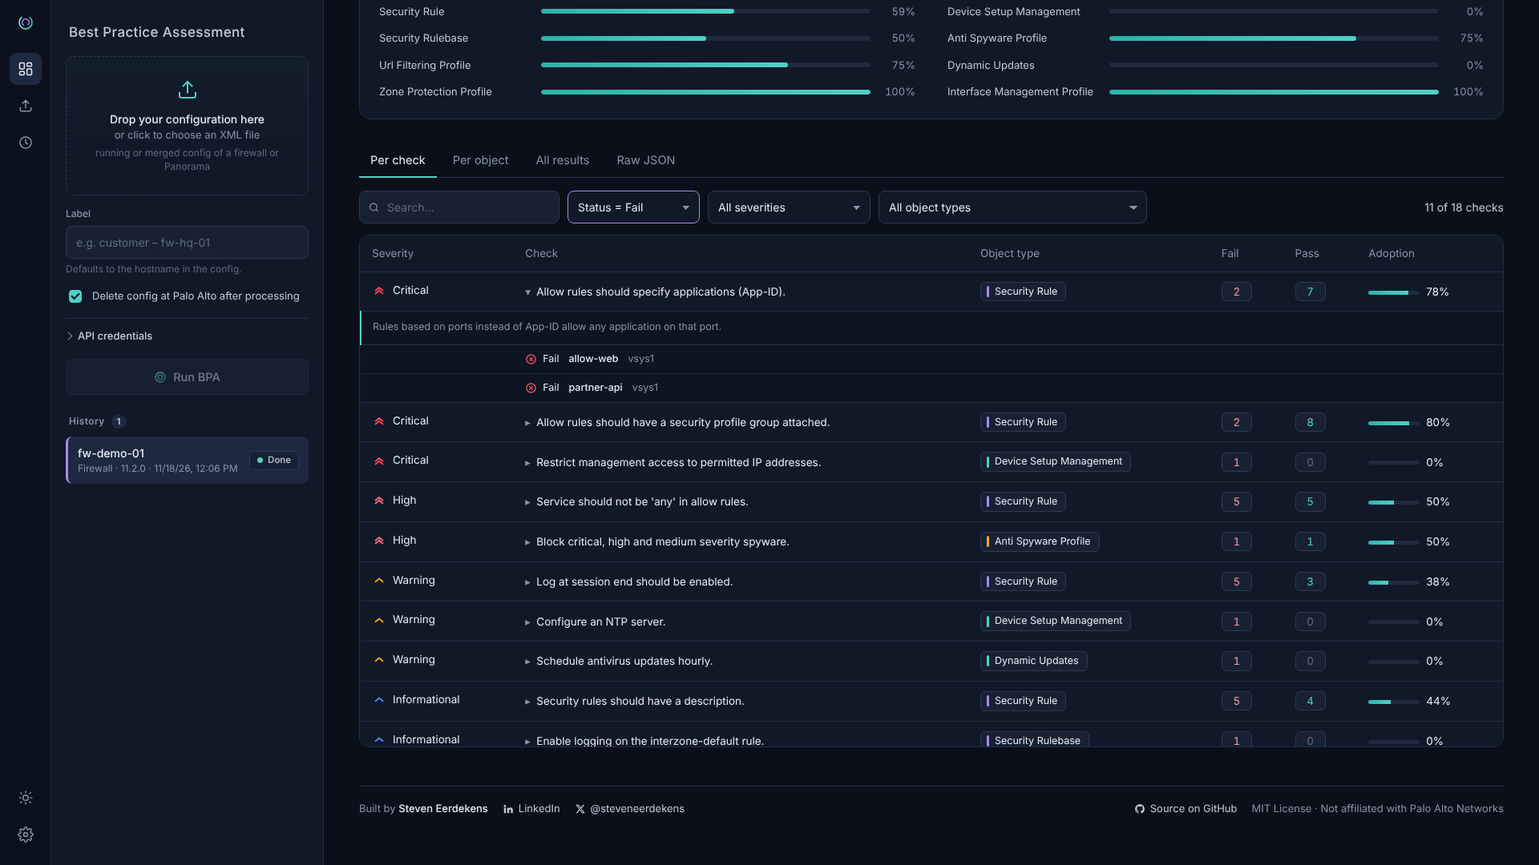
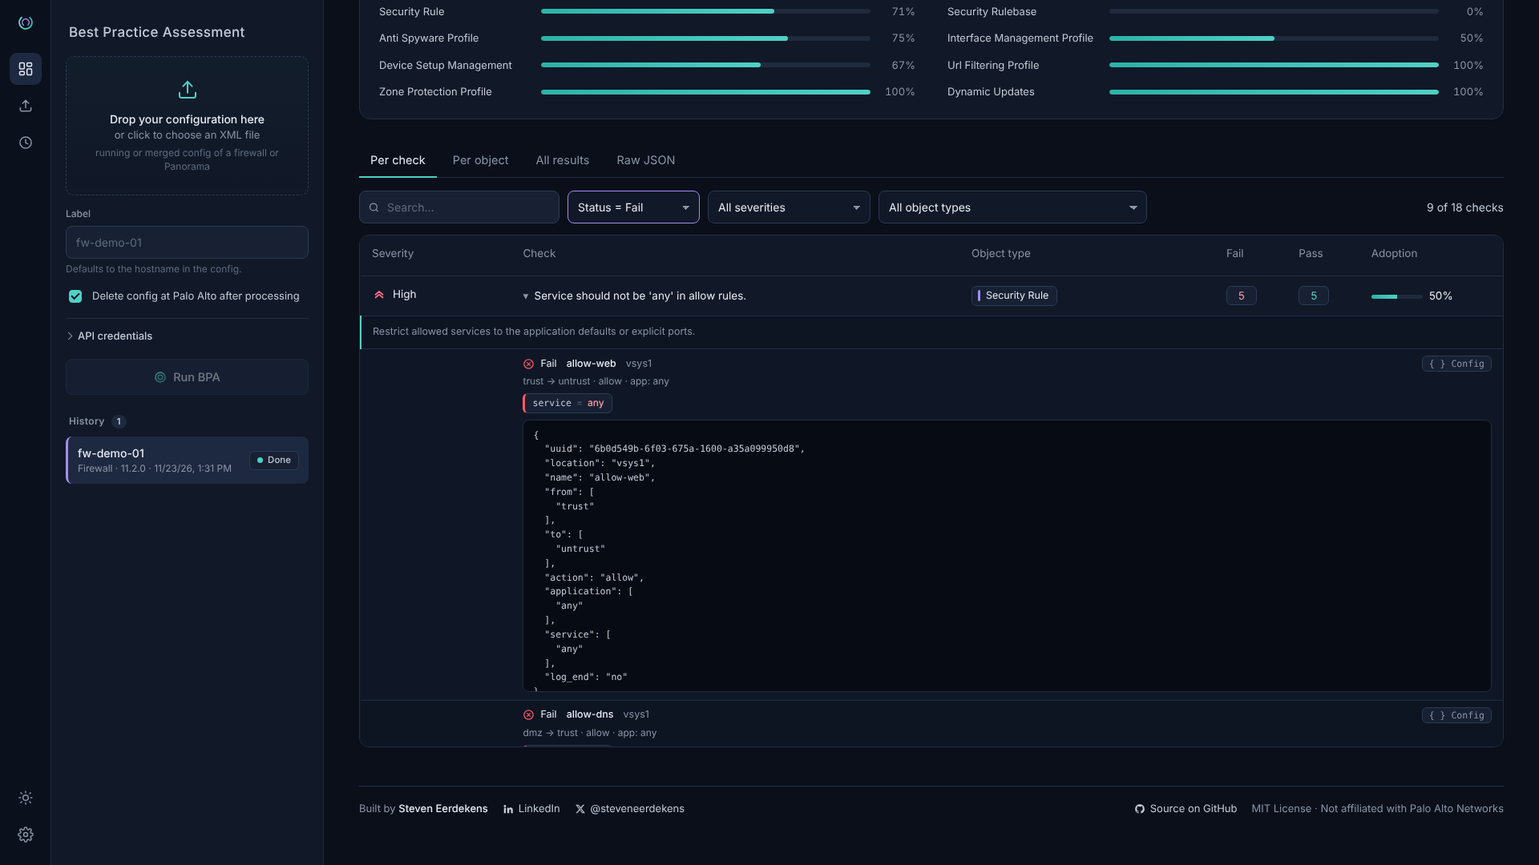
Show exactly which object and setting fails each check
- Name every failing result: rules and profiles by name, rulebases by
  location with their rule count, device settings by group
- Rule context: source and destination zones, action, applications
- Failing settings from failed_fields with their current value
  (e.g. service = any, permitted_ip = empty) in every view and the CSV
- Config viewer per object
- Fix: the config field 'type' was used as object type
- Mock report now includes rulebases, rule context and failed_fields

Claude-Session: https://claude.ai/code/session_018W57nAfqXuJgD4M58tbKTR

diff --git a/static/index.html b/static/index.html
@@ -198,6 +198,21 @@
   tr.sub td{background:var(--subrow);font-size:12.5px;padding:8px 14px}
   tr.sub:hover td{background:var(--subhover)}
   .caret{display:inline-block;width:14px;color:var(--muted)}
+  .objline{display:flex;align-items:center;gap:12px;flex-wrap:wrap}
+  .objline .sp{flex:1}
+  .ctx{font-size:12px;color:var(--muted);margin-top:3px}
+  .ffs{display:flex;flex-wrap:wrap;gap:6px;margin-top:6px}
+  .ff{display:inline-flex;align-items:baseline;gap:6px;font-size:12px;background:var(--panel2);border:1px solid var(--line2);border-left:3px solid var(--bad);
+    border-radius:6px;padding:2px 9px;max-width:100%}
+  .ff code{font-family:var(--mono);font-size:11.5px;color:var(--ink2)}
+  .ff span{color:var(--dim)}
+  .ff b{font-weight:500;color:var(--failink);word-break:break-word}
+  .ff i{color:var(--muted);font-style:italic;font-weight:400}
+  .resline{padding:3px 0}
+  .cfgbtn{font:500 11.5px var(--mono);color:var(--muted);background:var(--panel2);border:1px solid var(--line2);border-radius:6px;padding:2px 8px;cursor:pointer}
+  .cfgbtn:hover{color:var(--teal);border-color:var(--teal)}
+  pre.cfg{font:11.5px/1.55 var(--mono);background:var(--logbg);border:1px solid var(--line);border-radius:8px;padding:10px 12px;margin:8px 0 2px;
+    max-height:340px;overflow:auto;color:var(--ink2);white-space:pre}
   tr.desc td{background:var(--subrow);color:var(--muted);font-size:12.5px;padding:10px 14px 12px;border-left:2px solid var(--teal)}
 
   .sev{display:inline-flex;align-items:center;gap:8px;white-space:nowrap}
@@ -526,7 +541,7 @@ async function showDetail(t) {
   };
   if (t.has_report && !report) {
     report = await api(`/api/reports/${t.id}/json`);
-    rows = extractRows(report);
+    rows = extractRows(report); cfgOpen.clear();
     renderReport();
   }
   $('#report').classList.toggle('hidden', !t.has_report);
@@ -540,6 +555,72 @@ function stateOf(w) {
   const s = String(w.status ?? w.state ?? w.result ?? '').toLowerCase();
   return /pass|ok|compliant/.test(s) && !/non/.test(s) ? 'pass' : /fail|non/.test(s) ? 'fail' : s || 'unknown';
 }
+/* Work out what a result refers to: a named object, a whole rulebase, or a group of device settings */
+function describeObject(c, type) {
+  const list = v => Array.isArray(v) ? v : (v == null || v === '' ? [] : [v]);
+  const short = v => { const a = list(v).map(x => typeof x === 'object' ? (x?.name ?? JSON.stringify(x)) : String(x));
+    return a.length > 3 ? a.slice(0, 3).join(', ') + ` +${a.length - 3}` : a.join(', '); };
+  const name = [c.name, c['@name'], c.entry_name].find(v => typeof v === 'string' || typeof v === 'number');
+  if (name != null && name !== '') {
+    const ctx = [];
+    if (c.from !== undefined || c.to !== undefined) ctx.push(`${short(c.from) || 'any'} → ${short(c.to) || 'any'}`);
+    if (c.action) ctx.push(String(c.action));
+    const apps = c.application ?? c.applications;
+    if (apps !== undefined && short(apps)) ctx.push('app: ' + short(apps));
+    if (c.disabled === true || c.disabled === 'yes') ctx.push('disabled');
+    return {name: String(name), kind: 'object', ctx: ctx.join(' · ')};
+  }
+  const ruleKey = Object.keys(c).find(k => /_rules$/.test(k) && Array.isArray(c[k]));
+  if (ruleKey) {
+    const n = c[ruleKey].length;
+    return {name: `${nice(type)} · ${c.location || 'no location'}`, kind: 'rulebase', ruleCount: n,
+            ctx: `${n} rule${n === 1 ? '' : 's'} in this rulebase`};
+  }
+  return {name: nice(type), kind: 'settings', ctx: c.location ? `location: ${c.location}` : ''};
+}
+function fmtVal(v) {
+  if (v === null || v === undefined) return '<i>not set</i>';
+  if (v === '') return '<i>empty</i>';
+  if (Array.isArray(v)) {
+    if (!v.length) return '<i>empty</i>';
+    const a = v.map(x => typeof x === 'object' ? JSON.stringify(x) : String(x));
+    return esc(a.slice(0, 6).join(', ') + (a.length > 6 ? ` +${a.length - 6} more` : ''));
+  }
+  if (typeof v === 'object') { const j = JSON.stringify(v); return esc(j.length > 90 ? j.slice(0, 90) + '…' : j); }
+  return esc(String(v));
+}
+const failedText = r => r.failed ? Object.entries(r.failed).map(([k, v]) =>
+  `${k} = ${v === null ? 'not set' : Array.isArray(v) ? (v.length ? v.join(', ') : 'empty') : typeof v === 'object' ? JSON.stringify(v) : v}`).join('; ') : '';
+function detailHtml(r) {
+  const parts = [];
+  const rulebaseFail = r.state === 'fail' && r.kind === 'rulebase' && !r.failed;
+  if (rulebaseFail) {
+    parts.push(`<div class="ctx">${r.ruleCount === 0
+      ? 'This rulebase contains no rules at all, so nothing meets this requirement.'
+      : `Checked against the rulebase as a whole: none of its ${r.ruleCount} rule${r.ruleCount === 1 ? '' : 's'} meets this requirement.`}</div>`);
+  } else if (r.ctx) parts.push(`<div class="ctx">${esc(r.ctx)}</div>`);
+  if (r.failed) parts.push(`<div class="ffs">${Object.entries(r.failed).map(([k, v]) =>
+    `<span class="ff" title="Setting that fails this check, with its current value"><code>${esc(k)}</code><span>=</span><b>${fmtVal(v)}</b></span>`).join('')}</div>`);
+  return parts.join('');
+}
+const cfgOpen = new Set();
+function cfgButton(r) {
+  const i = r.idx;
+  return `<button class="cfgbtn" data-cfg="${i}" title="Show the configuration of this object">{ } Config</button>`;
+}
+function cfgBlock(r) {
+  if (!cfgOpen.has(r.idx)) return '';
+  let j = JSON.stringify(r.cfg, null, 2);
+  if (j.length > 30000) j = j.slice(0, 30000) + '\n… (truncated)';
+  return `<pre class="cfg">${esc(j)}</pre>`;
+}
+function wireCfgButtons(root) {
+  root.querySelectorAll('[data-cfg]').forEach(b => b.onclick = e => {
+    e.stopPropagation();
+    const i = +b.dataset.cfg; cfgOpen.has(i) ? cfgOpen.delete(i) : cfgOpen.add(i); draw();
+  });
+}
+
 function extractRows(data) {
   const out = [];
   const walk = (node, typeKey, catKey) => {
@@ -547,15 +628,19 @@ function extractRows(data) {
     if (!node || typeof node !== 'object') return;
     if (Array.isArray(node.warnings)) {
       const c = node.configuration || {};
-      const objName = c.name ?? c['@name'] ?? c.uuid ?? '(object)';
+      // The report's own grouping key is the object type; config fields such as `type` mean something else
+      const t = typeKey || (typeof c.object_type === 'string' && c.object_type) || 'other';
+      const info = describeObject(c, t);
       for (const w of node.warnings) {
         if (!w || typeof w !== 'object') continue;
         out.push({
-          type: c.object_type || c.type || typeKey || 'other', cat: catKey || '', object: String(objName),
+          type: t, cat: catKey || '', object: info.name, kind: info.kind, ctx: info.ctx, ruleCount: info.ruleCount,
           location: c.location || c.folder || c.device_group || c.vsys || '',
           check: w.check_name || w.name || `Check ${w.check_id ?? ''}`, check_id: w.check_id ?? '',
           severity: SEVS.includes(w.check_type) ? w.check_type : (SEVS.includes(w.severity) ? w.severity : (w.check_type || w.severity || '')),
           state: stateOf(w), message: w.check_message || w.message || '',
+          failed: w.failed_fields && typeof w.failed_fields === 'object' && Object.keys(w.failed_fields).length ? w.failed_fields : null,
+          cfg: c,
         });
       }
       return;
@@ -574,6 +659,7 @@ function extractRows(data) {
     }
   };
   walk(data, null, null);
+  out.forEach((r, i) => r.idx = i);
   return out;
 }
 
@@ -702,11 +788,12 @@ function draw() {
           <td>${typePill(g)}</td><td>${box(g.fail,'f')}</td><td>${box(g.pass,'p')}</td>
           <td class="nw"><span class="mini"><i style="width:${pct}%"></i></span>${pct}%</td></tr>` +
           (open ? (g.items[0]?.message ? `<tr class="desc"><td colspan="6">${esc(g.items[0].message)}</td></tr>` : '')
-            + g.items.slice(0, 300).map(r => `<tr class="sub"><td></td><td colspan="5"><div style="display:flex;align-items:center;gap:12px;flex-wrap:wrap">${stCell(r.state)}<b style="font-weight:500">${esc(r.object)}</b>${r.location ? `<span class="muted">${esc(r.location)}</span>` : ''}</div>${r.message && r.message !== g.items[0].message ? `<div class="muted" style="margin:3px 0 0 0">${esc(r.message)}</div>` : ''}</td></tr>`).join('')
+            + g.items.slice(0, 300).map(r => `<tr class="sub"><td></td><td colspan="5"><div class="objline">${stCell(r.state)}<b style="font-weight:500">${esc(r.object)}</b>${r.location && r.kind === 'object' ? `<span class="muted">${esc(r.location)}</span>` : ''}<span class="sp"></span>${cfgButton(r)}</div>${detailHtml(r)}${r.message && r.message !== g.items[0].message ? `<div class="muted" style="margin:3px 0 0 0">${esc(r.message)}</div>` : ''}${cfgBlock(r)}</td></tr>`).join('')
             + (g.items.length > 300 ? `<tr class="sub"><td></td><td colspan="5" class="muted">… and ${g.items.length-300} more</td></tr>` : '') : '');
       }).join('')}</tbody></table></div>`;
     v.querySelectorAll('tr.grp').forEach(tr => tr.onclick = () => {
       const k = tr.dataset.k; openGroups.has(k) ? openGroups.delete(k) : openGroups.add(k); draw(); });
+    wireCfgButtons(v);
     return;
   }
 
@@ -714,24 +801,27 @@ function draw() {
     const agg = new Map();
     for (const r of f) {
       const k = r.type + '|' + r.location + '|' + r.object;
-      const g = agg.get(k) || {key:k, object:r.object, type:r.type, cat:r.cat, location:r.location, items:[], worst:9};
+      const g = agg.get(k) || {key:k, object:r.object, type:r.type, cat:r.cat, location:r.location, kind:r.kind, ctx:r.ctx, first:r, items:[], worst:9};
       g.items.push(r); if (r.state === 'fail') g.worst = Math.min(g.worst, sevRank(r.severity)); agg.set(k, g);
     }
     const groups = [...agg.values()].sort((a,b) => a.worst - b.worst || b.items.length - a.items.length);
     $('#count').textContent = `${fmtN(groups.length)} objects`;
     v.innerHTML = `<div class="tw"><table><thead><tr><th>Object</th><th>Object type</th><th>Location</th><th>Results</th></tr></thead><tbody>
-      ${groups.slice(0, LIMIT).map(g => `<tr><td><b style="font-weight:500">${esc(g.object)}</b></td><td>${typePill(g)}</td><td class="muted">${esc(g.location)}</td>
-        <td>${g.items.sort((a,b)=>sevRank(a.severity)-sevRank(b.severity)).map(r => `<div style="display:flex;gap:12px;align-items:center;padding:2px 0">${sevIcon(r.severity).replace('<svg ','<svg width="16" height="16" ')}${stCell(r.state)}<span class="muted">${esc(r.check)}</span></div>`).join('')}</td></tr>`).join('')}
+      ${groups.slice(0, LIMIT).map(g => `<tr><td><b style="font-weight:500">${esc(g.object)}</b>${g.ctx ? `<div class="ctx">${esc(g.ctx)}</div>` : ''}<div style="margin-top:6px">${cfgButton(g.first)}</div>${cfgBlock(g.first)}</td><td>${typePill(g)}</td><td class="muted">${esc(g.location)}</td>
+        <td>${g.items.sort((a,b)=>sevRank(a.severity)-sevRank(b.severity)).map(r => `<div class="resline"><div style="display:flex;gap:12px;align-items:center">${sevIcon(r.severity).replace('<svg ','<svg width="16" height="16" ')}${stCell(r.state)}<span class="muted">${esc(r.check)}</span></div>${r.state === 'fail' && r.failed ? `<div class="ffs" style="margin-left:28px">${Object.entries(r.failed).map(([k, v]) => `<span class="ff"><code>${esc(k)}</code><span>=</span><b>${fmtVal(v)}</b></span>`).join('')}</div>` : ''}</div>`).join('')}</td></tr>`).join('')}
       </tbody></table></div>${groups.length > LIMIT ? `<div class="note">Showing the first ${LIMIT} — refine the filters.</div>` : ''}`;
+    wireCfgButtons(v);
     return;
   }
 
   const s = f.slice().sort((a,b) => sevRank(a.severity) - sevRank(b.severity));
   $('#count').textContent = `${fmtN(f.length)} of ${fmtN(rows.length)} results`;
-  v.innerHTML = `<div class="tw"><table><thead><tr><th>Severity</th><th>Status</th><th>Check</th><th>Object</th><th>Object type</th><th>Location</th><th>Message</th></tr></thead><tbody>
+  v.innerHTML = `<div class="tw"><table><thead><tr><th>Severity</th><th>Status</th><th>Check</th><th>Object</th><th>Object type</th><th>Location</th><th>Failing setting / message</th></tr></thead><tbody>
     ${s.slice(0, LIMIT).map(r => `<tr><td>${sevBadge(r.severity)}</td><td>${stCell(r.state)}</td><td>${esc(r.check)}</td>
-      <td>${esc(r.object)}</td><td>${typePill(r)}</td><td class="muted">${esc(r.location)}</td><td class="muted">${esc(r.message)}</td></tr>`).join('')}
+      <td>${esc(r.object)}${r.ctx ? `<div class="ctx">${esc(r.ctx)}</div>` : ''}<div style="margin-top:6px">${cfgButton(r)}</div></td><td>${typePill(r)}</td><td class="muted">${esc(r.location)}</td>
+      <td>${detailHtml({...r, ctx: ''})}<div class="muted">${esc(r.message)}</div>${cfgBlock(r)}</td></tr>`).join('')}
     </tbody></table></div>${s.length > LIMIT ? `<div class="note">Showing the first ${LIMIT} — refine the filters or export to CSV.</div>` : ''}`;
+  wireCfgButtons(v);
 }
 
 function setTab(t) {
@@ -745,9 +835,9 @@ let deb; $('#q').oninput = () => { clearTimeout(deb); deb = setTimeout(draw, 200
 ['#fState','#fSev','#fType'].forEach(s => $(s).onchange = draw);
 
 $('#csv').onclick = () => {
-  const cols = ['severity','state','check_id','check','type','object','location','message'];
+  const cols = ['severity','state','check_id','check','type','object','context','location','failed_settings','message'];
   const q = v => `"${String(v ?? '').replace(/"/g,'""')}"`;
-  const csv = '' + cols.join(';') + '\n' + filtered().map(r => cols.map(c => q(r[c])).join(';')).join('\n');
+  const csv = '' + cols.join(';') + '\n' + filtered().map(r => cols.map(c => q(c === 'failed_settings' ? failedText(r) : c === 'context' ? r.ctx : r[c])).join(';')).join('\n');
   const a = document.createElement('a');
   a.href = URL.createObjectURL(new Blob([csv], {type:'text/csv;charset=utf-8'}));
   a.download = `BPA_${($('#dTitle').textContent||'report').replace(/[^\w.-]+/g,'_')}.csv`;

diff --git a/app.py b/app.py
@@ -332,17 +332,18 @@ def _mock_report() -> dict[str, Any]:
                 ["allow-web", "allow-dns", "any-any-temp", "dmz-to-lan", "vpn-users", "guest-internet",
                  "mgmt-access", "backup-srv", "iot-cloud", "partner-api"],
                 [("Allow rules should specify applications (App-ID).", "Critical",
-                  "Rules based on ports instead of App-ID allow any application on that port."),
+                  "Rules based on ports instead of App-ID allow any application on that port.", {"application": ["any"]}),
                  ("Allow rules should have a security profile group attached.", "Critical",
-                  "Without threat profiles, allowed traffic is not inspected for exploits or malware."),
+                  "Without threat profiles, allowed traffic is not inspected for exploits or malware.",
+                  {"profile_setting.group": None}),
                  ("Service should not be 'any' in allow rules.", "High",
-                  "Restrict allowed services to the application defaults or explicit ports."),
+                  "Restrict allowed services to the application defaults or explicit ports.", {"service": ["any"]}),
                  ("Log at session end should be enabled.", "Warning",
-                  "Session-end logging provides visibility for investigation and reporting."),
+                  "Session-end logging provides visibility for investigation and reporting.", {"log_end": "no"}),
                  ("Security rules should have a description.", "Informational",
                   "Descriptions help reviewers understand why a rule exists.")]),
             "security_rulebase": (
-                ["rulebase"],
+                [None],
                 [("Block inbound traffic from known malicious IP addresses.", "High",
                   "Use external dynamic lists with known malicious IP addresses."),
                  ("Enable logging on the interzone-default rule.", "Informational",
@@ -352,7 +353,8 @@ def _mock_report() -> dict[str, Any]:
             "anti_spyware_profile": (
                 ["default", "strict-AS"],
                 [("Enable DNS sinkhole in the anti-spyware profile.", "Critical",
-                  "Sinkholing identifies infected hosts that resolve malicious domains."),
+                  "Sinkholing identifies infected hosts that resolve malicious domains.",
+                  {"botnet_domains.lists.default-paloalto-dns.action": "alert"}),
                  ("Block critical, high and medium severity spyware.", "High",
                   "Command-and-control traffic should be blocked, not only alerted.")]),
             "url_filtering_profile": (
@@ -366,7 +368,7 @@ def _mock_report() -> dict[str, Any]:
             "zone_protection_profile": (
                 ["zp-untrust"],
                 [("Enable reconnaissance protection.", "Warning",
-                  "Detects and blocks port scans and host sweeps."),
+                  "Detects and blocks port scans and host sweeps.", {"scan.8001.action": None}),
                  ("Enable packet-based attack protection.", "Warning",
                   "Drops malformed and spoofed packets.")]),
             "interface_management_profile": (
@@ -376,15 +378,15 @@ def _mock_report() -> dict[str, Any]:
         },
         "device": {
             "device_setup_management": (
-                ["fw-demo-01"],
+                [None],
                 [("Restrict management access to permitted IP addresses.", "Critical",
-                  "Management access should only be possible from trusted networks."),
+                  "Management access should only be possible from trusted networks.", {"permitted_ip": []}),
                  ("Enable minimum password complexity.", "High",
-                  "Enforce strong passwords for local administrators."),
+                  "Enforce strong passwords for local administrators.", {"enabled": "no", "minimum_length": 0}),
                  ("Configure an NTP server.", "Warning",
-                  "Accurate time is required for log correlation.")]),
+                  "Accurate time is required for log correlation.", {"ntp_servers": None})]),
             "dynamic_updates": (
-                ["updates"],
+                [None],
                 [("Schedule antivirus updates hourly.", "Warning",
                   "Frequent updates shorten the window of exposure.")]),
         },
@@ -399,15 +401,32 @@ def _mock_report() -> dict[str, Any]:
             objs = []
             for n in names:
                 warns = []
-                for check_id, (cn, sev, msg) in zip(ids, checks):
+                for check_id, chk in zip(ids, checks):
+                    cn, sev, msg = chk[:3]
+                    failed = chk[3] if len(chk) > 3 else None
                     passed = rnd.random() > 0.38
                     excl = not passed and rnd.random() < 0.12
                     warns.append({"check_id": check_id, "check_name": cn, "check_type": sev,
                                   "check_message": msg, "check_passed": passed, "check_excluded": excl,
+                                  "failed_fields": None if passed else failed,
                                   "defined_by": "Predefined", "severity": ""})
-                objs.append({"configuration": {"uuid": str(uuid.UUID(int=rnd.getrandbits(128))),
-                                               "name": n, "location": "vsys1"},
-                             "warnings": warns, "notes": None, "summary_remediation": {}})
+                cfg: dict[str, Any] = {"uuid": str(uuid.UUID(int=rnd.getrandbits(128))), "location": "vsys1"}
+                if n is None and otype.endswith("_rulebase"):
+                    cfg[otype.replace("_rulebase", "_rules")] = [{"name": x} for x in spec["policies"]["security_rule"][0]]
+                elif n is not None:
+                    cfg["name"] = n
+                if otype == "security_rule":
+                    zones = [("trust", "untrust"), ("dmz", "trust"), ("guest", "untrust"), ("untrust", "dmz")]
+                    src, dst = rnd.choice(zones)
+                    cfg.update({"from": [src], "to": [dst], "action": "allow",
+                                "application": rnd.choice([["web-browsing", "ssl"], ["any"], ["dns"], ["ms-rdp"]]),
+                                "service": ["application-default"]})
+                # keep the fictional config consistent with the settings reported as failing
+                for w in warns:
+                    for k, v in (w["failed_fields"] or {}).items():
+                        if "." not in k:
+                            cfg[k] = v
+                objs.append({"configuration": cfg, "warnings": warns, "notes": None, "summary_remediation": {}})
             out[domain][otype] = objs
     return {"best_practices": out, "version": "1",
             "information": {"platform": "ngfw", "PanOS_version": "11.2.0", "note": "Fictional sample report (mock)"}}

diff --git a/CLAUDE.md b/CLAUDE.md
@@ -36,8 +36,18 @@ warning = { check_id, check_name, check_type (Critical|High|Warning|Informationa
             check_passed, check_excluded, remediation, failed_fields, defined_by, severity }
 ```
 
-`extractRows()` in the frontend flattens this into rows: `{type, cat, object, location, check, check_id, severity, state, message}`.
+`extractRows()` in the frontend flattens this into rows: `{type, cat, object, kind, ctx, ruleCount, location, check, check_id, severity, state, message, failed, cfg, idx}`.
 `state` is `pass`, `fail` or `excepted`. The function is deliberately generic. Unknown structures fall back to the "Raw JSON" tab.
+
+What a result refers to (`describeObject()`):
+
+- **`object`**: a named object (security rule, profile, zone…). `configuration.name` is the name; rules get context from `from`/`to`/`action`/`application`.
+- **`rulebase`**: the configuration has no name but a `*_rules` list (`security_rules`, `decryption_rules`…). The check applies to the rulebase as a whole (for example "there must be a rule that blocks QUIC"), so there is no single rule to point at. One rulebase per location: `vsys1`, `shared`, `predefined` or an empty location.
+- **`settings`**: a group of device settings without a name (`device_setup_*`, `log_settings_*`, `dynamic_updates`, `user_id`).
+
+`failed_fields` (a dict, or `null`) holds the exact settings that fail the check and their current value, for example `{"service": ["any"]}` or `{"permitted_ip": []}`. Keys can be dotted paths. This is the most useful information for the user: always show it next to a failing result.
+
+Don't use the configuration field `type` as the object type: on some objects it is a setting (for example the management interface). The grouping key in the report is the object type.
 
 ## Developing and testing locally
 
@@ -46,7 +56,7 @@ pip install -r requirements.txt
 BPA_MOCK=1 uvicorn app:app --reload --port 8000     # fictional report, no credentials needed
 ```
 
-- **Mock mode:** `_mock_report()` generates a fictional report in the same structure as the real API. **Never** use real customer reports or configs as test data or in screenshots: they contain rule names, object names and network details.
+- **Mock mode:** `_mock_report()` generates a fictional report in the same structure as the real API, including rulebases, rule context and `failed_fields`, with the config kept consistent with the failing settings. **Never** use real customer reports or configs as test data or in screenshots: they contain rule names, object names and network details.
 - **Testing the real API path without credentials:** run a fake server with FastAPI and point `PAN_AUTH_URL` and `PAN_API_BASE` at it. This lets you test 202, 404, 429, `custom_check_url` and gzip reports too.
 - **Checking the UI:** test at 1280, 1440 and 1920 px. Below 1520 px the layout switches to a more compact table.
 

diff --git a/README.md b/README.md
@@ -16,7 +16,8 @@ This tool puts a web interface on top of it: drop in a config, get a clear repor
 - **Complete API flow:** get a token, create an upload task, upload the config, poll the status, download the report.
 - **Everything at a glance:** adoption rate, pass/fail/excepted, fails by severity, adoption by domain (policies, objects, network, device) and adoption by object type.
 - **Three views.** By check (expand a check to see the failing objects), by object, and all results. Filter by status, severity and object type, or search the text.
-- **Export** to CSV (opens correctly in Excel) and to the original JSON.
+- **Pinpoints what fails.** For every failing object you see which rule, profile or setting it is, with context for rules (zones, action, applications), the exact setting that fails with its current value (for example `service = any` or `permitted_ip = empty`), and the full configuration of the object on request. Rulebase-wide checks say which rulebase it is and how many rules it contains.
+- **Export** to CSV (opens correctly in Excel, including the failing settings) and to the original JSON.
 - **History** of all reports, kept in a Docker volume.
 - **Resilient to API quirks.** When the limit of 5 active jobs is hit (HTTP 429), the tool waits automatically. It looks for the download link in several places, unpacks gzip reports itself, and falls back to a raw JSON view if the structure is unknown.
 - **Privacy:** the local copy of the config is deleted as soon as the upload succeeds. By default the tool also asks Palo Alto to delete the config after processing (`delete_after_processing`).
